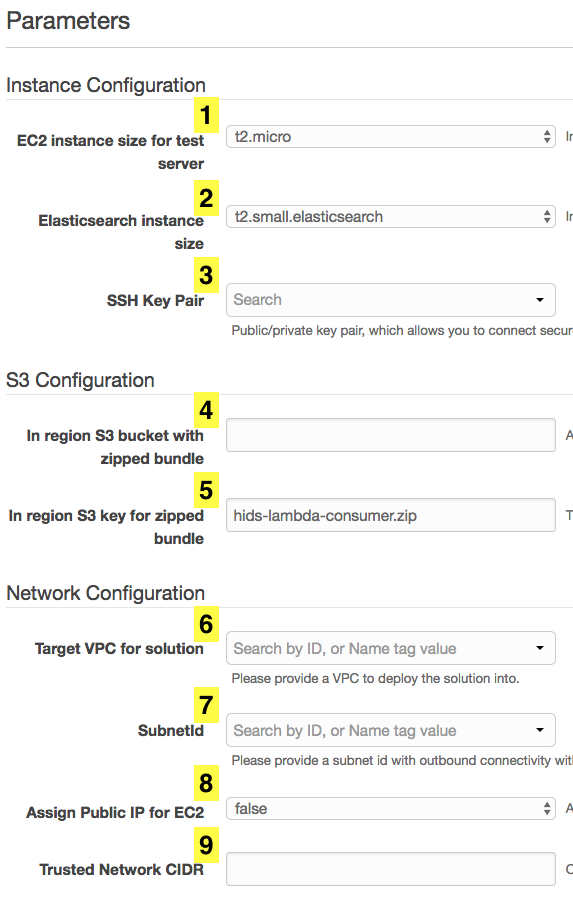
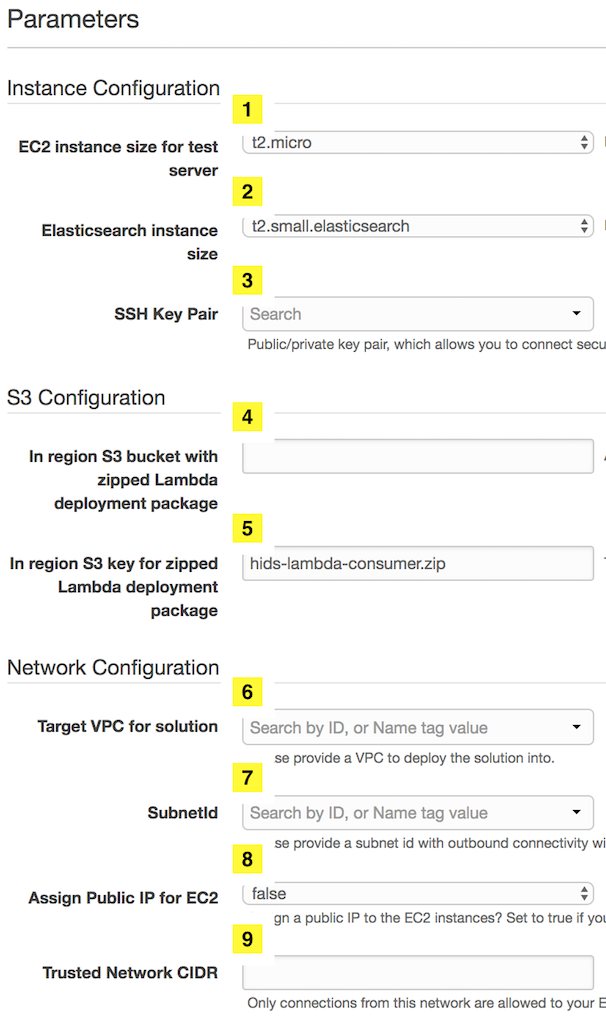
Update README.md

Changed region(s): [[0.0, 0.0, 1.0, 0.9956], [0.9494, 0.1867, 1.0, 0.2489]]

diff --git a/README.md b/README.md
@@ -25,7 +25,7 @@ This solution contains a test environment AWS CloudFormation stack that you can 
 Note that this solution depends on Amazon ES and Lambda that, at the time of this writing, are available in the following regions: US East (N. Virginia), US East (Ohio), US West (Oregon), US West (N. California), EU (Ireland), EU (Frankfurt), Asia Pacific (Singapore), Asia Pacific (Tokyo), Asia Pacific (Sydney), and Asia Pacific (Seoul).
 
 For the following input parameters, you must identify a target VPC and subnet (which requires Internet access) for deployment. If the target subnet uses an Internet gateway, set the AssignPublicIP parameter to true. If the target subnet uses a NAT gateway, you can leave the default setting of AssignPublicIP as false.
-In order for the Lambda function to be deployed, you will need to stage the bundle in an S3 bucket located in the region you are deploying into. To do this, you will download the zipped bundle and upload it to your in-region bucket. The bundle can be [downloaded here](https://github.com/awslabs/hids-cloudwatchlogs-elasticsearch-template/raw/master/lambda-consumer/hids-lambda-consumer.zip). For additional information about uploading objects to S3, please reference [Uploading Object into Amazon S3 in our documentation](http://docs.aws.amazon.com/AmazonS3/latest/UG/UploadingObjectsintoAmazonS3.html).
+In order for the Lambda function to be deployed, you will need to stage the Lambda deployment package in an S3 bucket located in the region you are deploying into. To do this, you will download the zipped deployment package and upload it to your in-region bucket. The Lambda zipped deployment package can be [downloaded here](https://github.com/awslabs/hids-cloudwatchlogs-elasticsearch-template/raw/master/lambda-consumer/deployment-package/hids-lambda-consumer.zip). For additional information about uploading objects to S3, please reference [Uploading Object into Amazon S3 in our documentation](http://docs.aws.amazon.com/AmazonS3/latest/UG/UploadingObjectsintoAmazonS3.html).
 
 You also must provide a trusted source IP address or CIDR block for access to the environment following the creation of the stack and an EC2 key pair to associate with the instances. You can find information about creating an EC2 key pair in the documentation here. Note that the trusted IP address or CIDR block also is used to create the Amazon ES access policy automatically for Kibana access. It is recommended that you utilize a specific IP address or CIDR range rather than using 0.0.0.0/0 which will allow all IPv4 addresses to access your instances.
 
@@ -37,9 +37,9 @@ EC2 instance size for test server
 2.	ESInstanceSize:
 Elasticsearch instance size
 3.	MyS3Bucket:
-In region S3 bucket with zipped bundle
+In region S3 bucket with Lambda zipped deployment package
 4.	MyS3Key:
-In region S3 key for zipped bundle
+In region S3 key for Lambda zipped deployment package
 5.	MyKeyName:
 A public/private key pair that allows you to connect securely to your instance after it launches
 6.	VPCId:
